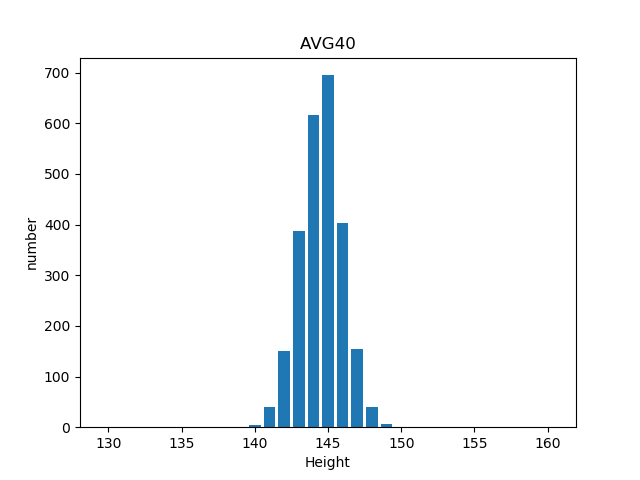
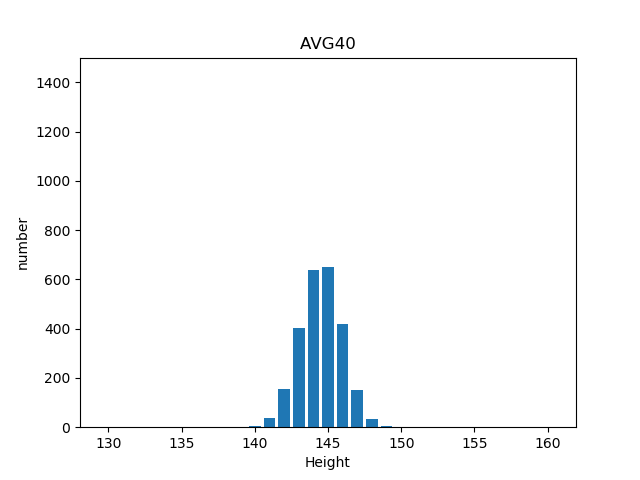
update HW01

diff --git a/Probability/HW01.py b/Probability/HW01.py
@@ -5,7 +5,7 @@ num = list()
 x = list()
 y = list()
 MAXN = 100000
-AVG = 20
+AVG = 10
 
 for i in range(130,160+1) :
 	x.append(i)
@@ -19,7 +19,8 @@ plt.title('All')
 plt.xlabel('Height')
 plt.ylabel('number')
 plt.bar(x,y)
-plt.show()
+plt.savefig('All.png')
+plt.close()
 
 for k in range(1,12):
 	for i in range(len(y)) :
@@ -35,8 +36,10 @@ for k in range(1,12):
 	plt.title('AVG'+str(AVG))
 	plt.xlabel('Height')
 	plt.ylabel('number')
+	plt.ylim(0,1500)
 	plt.bar(x,y)
-	plt.show()
+	plt.savefig('AVG'+str(AVG)+'.png')
+	plt.close()
 
 	AVG += 5
 
